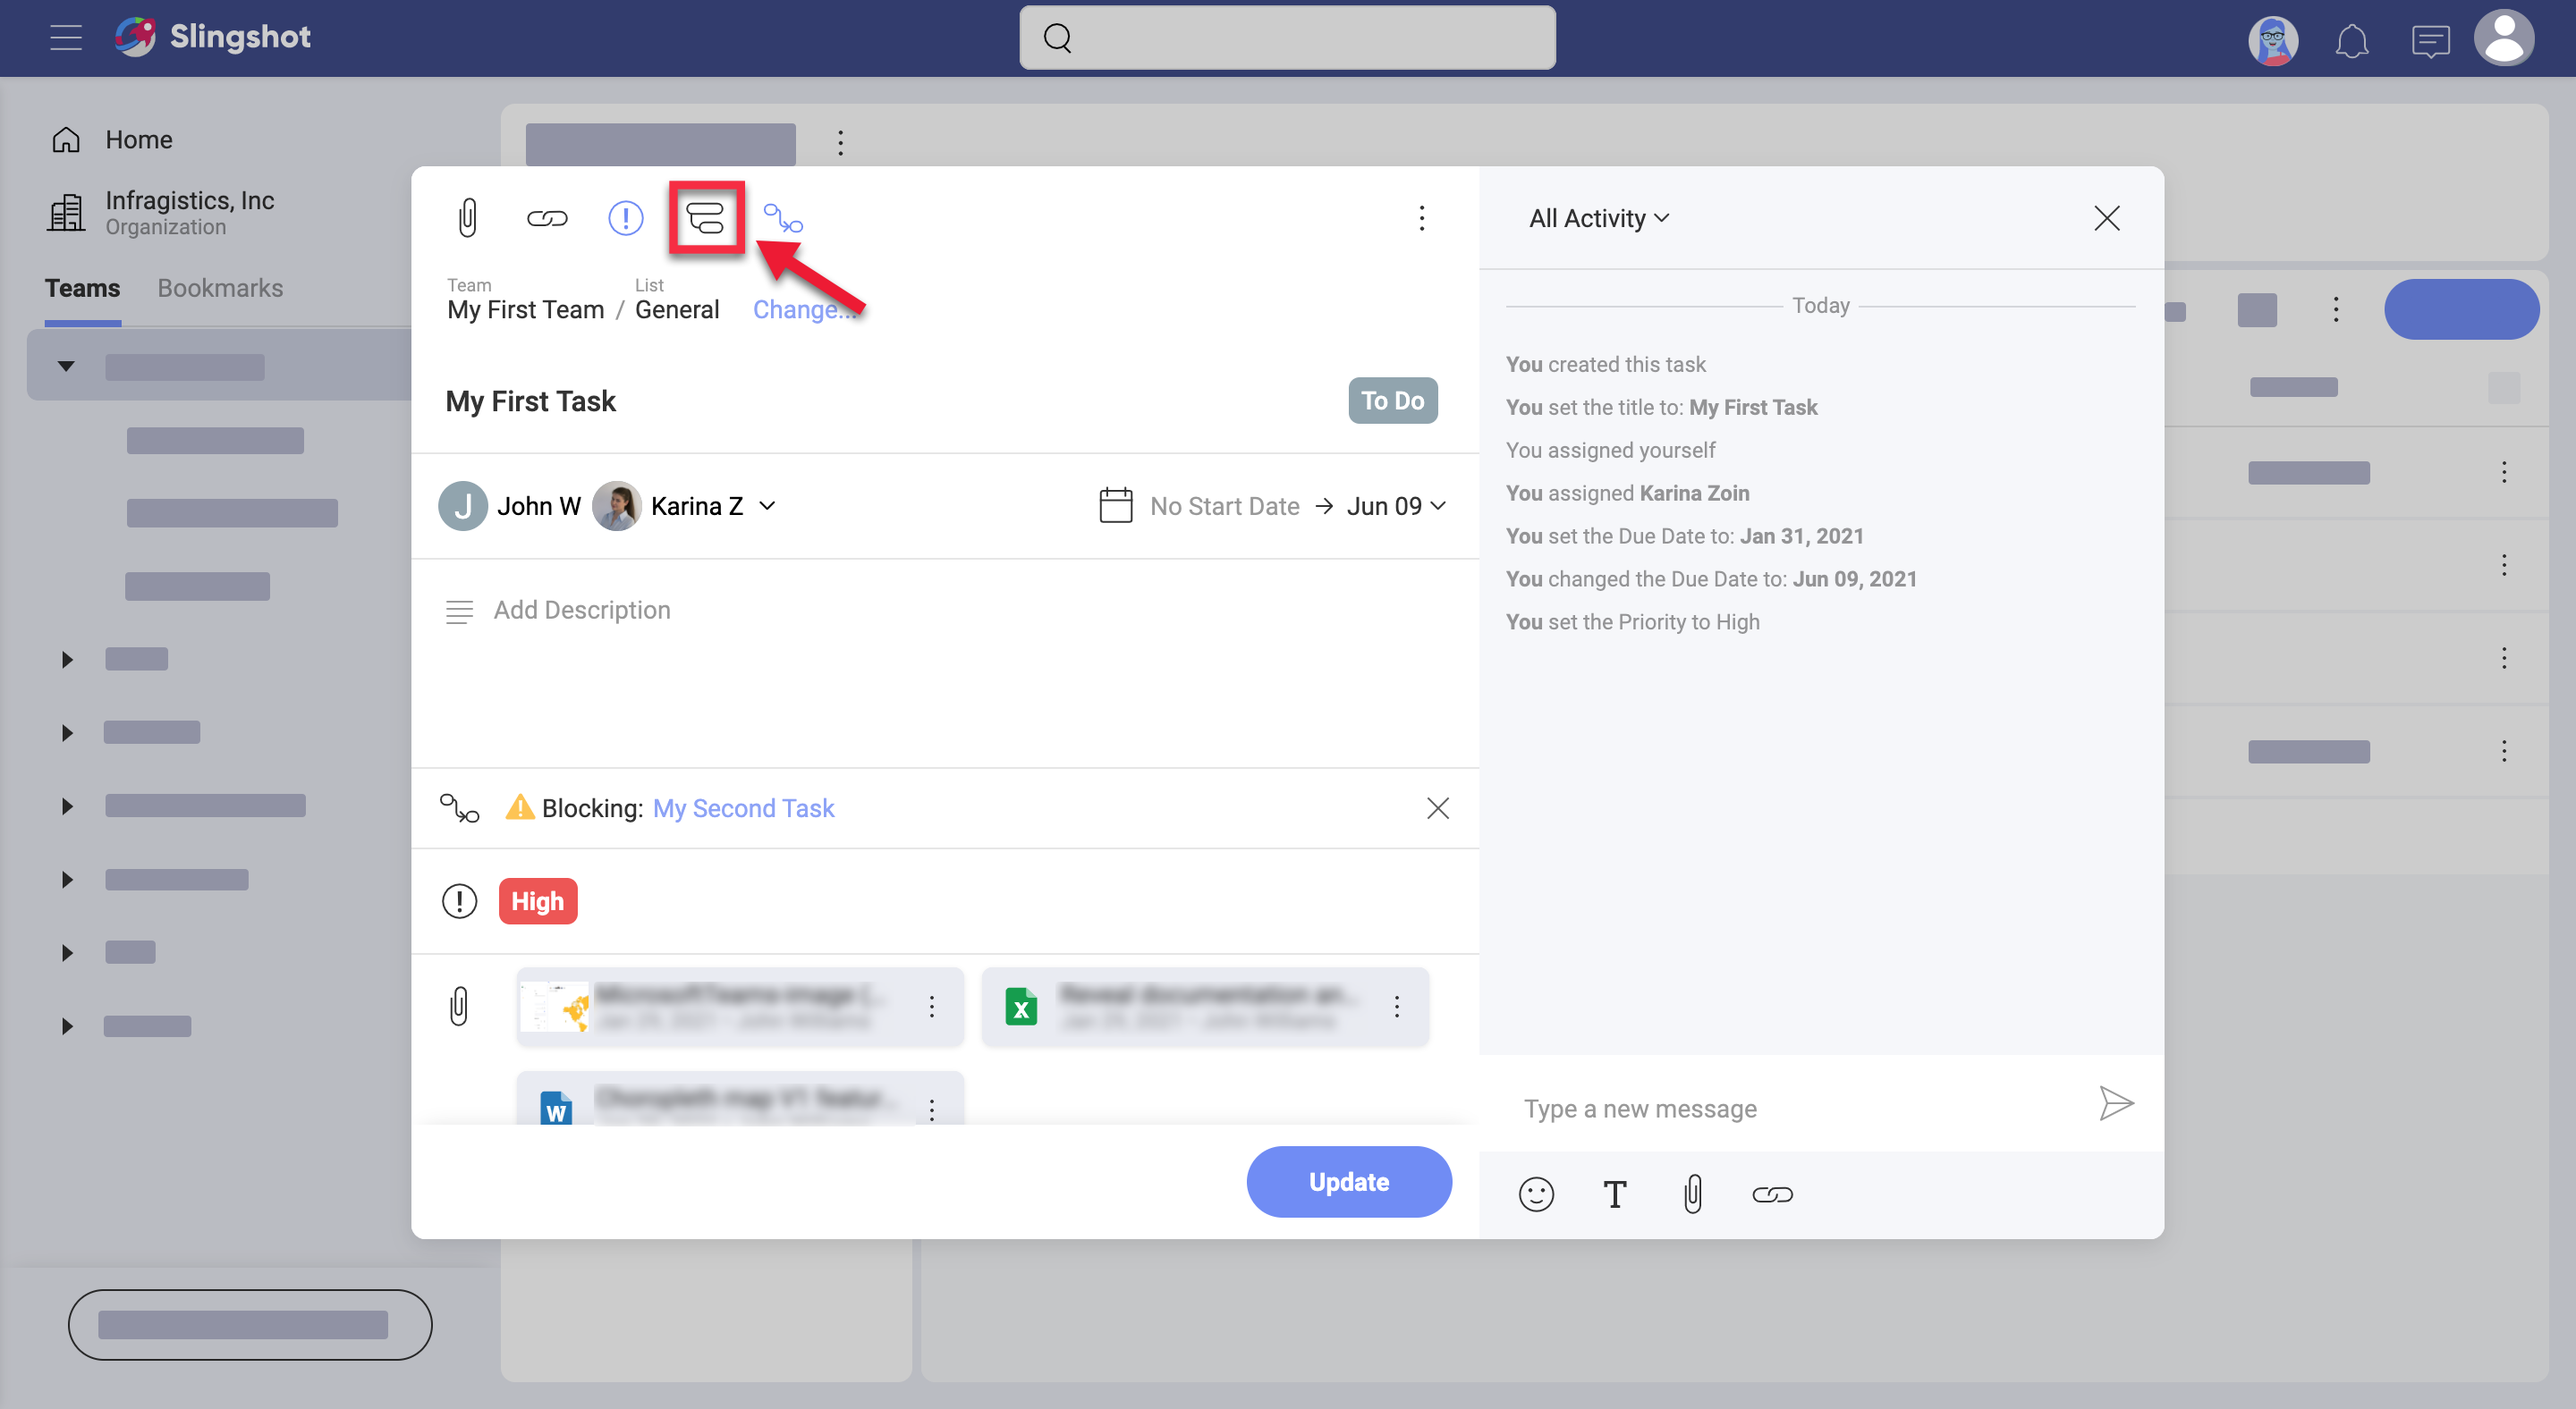
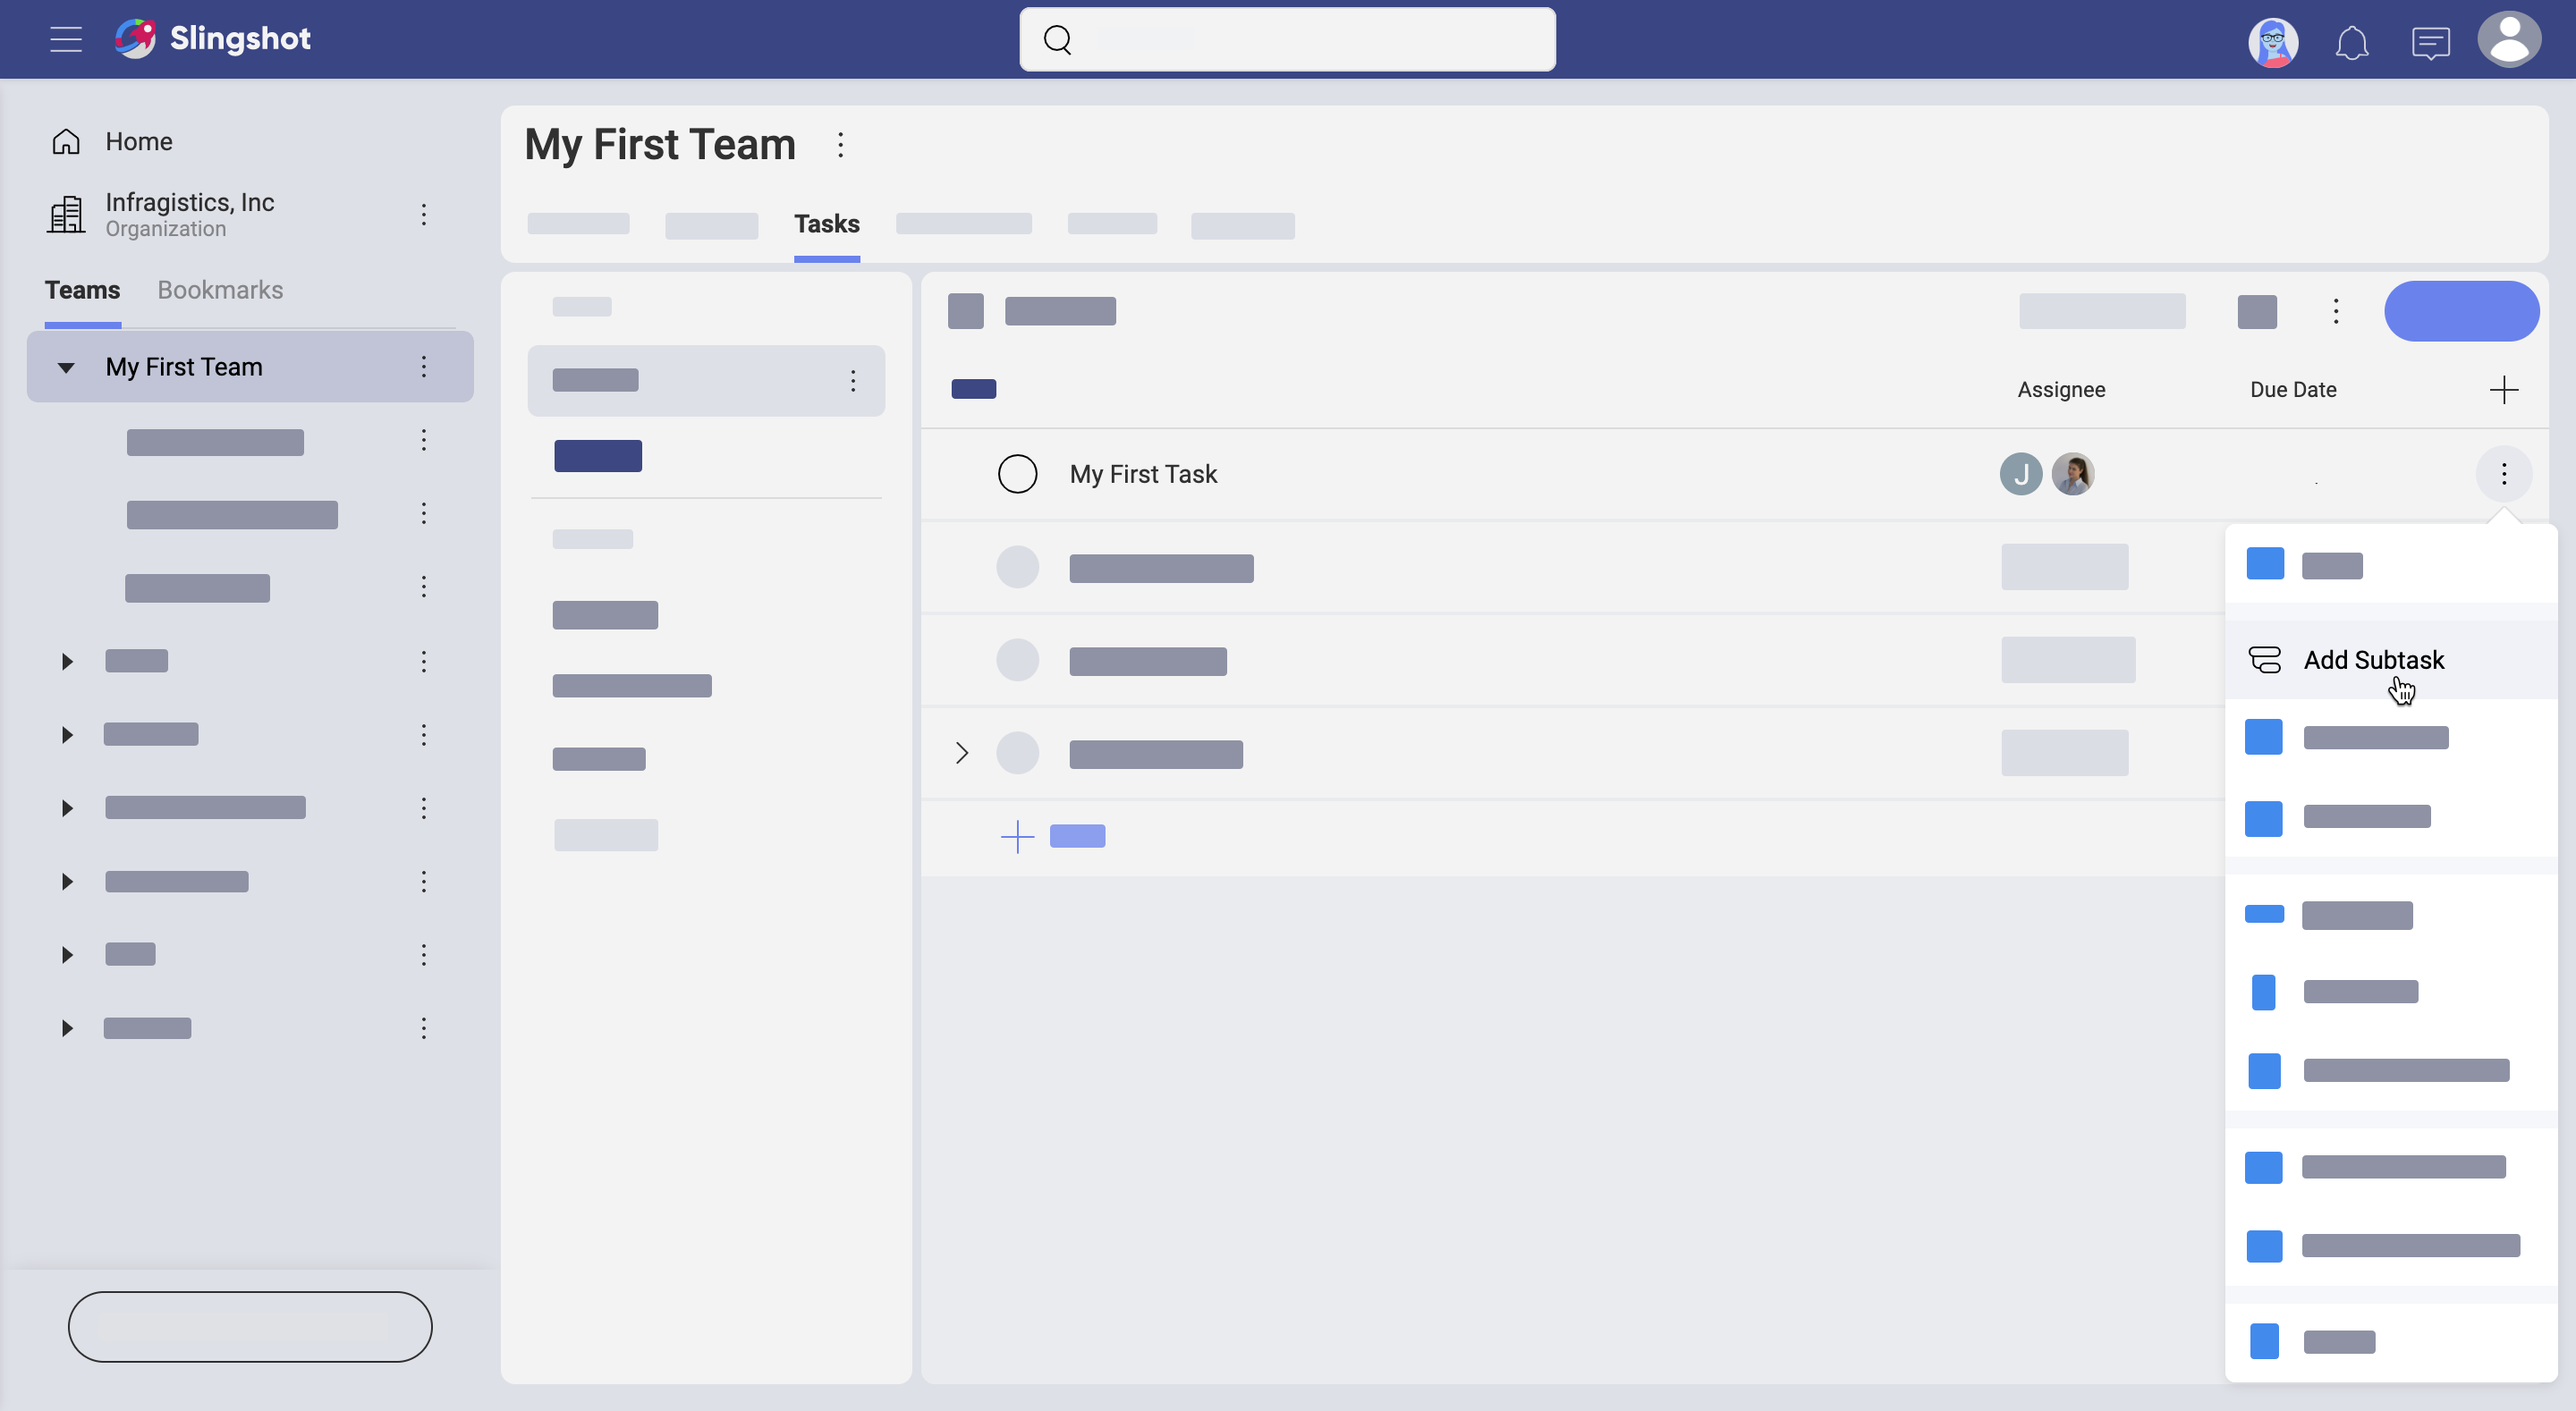
Replace screenshots with SUI screenshots

diff --git a/docTopics/en/components/tasks-starting.md b/docTopics/en/components/tasks-starting.md
@@ -21,7 +21,6 @@ All the members of a team or project can access the tasks created within that te
 
 You can access your tasks by going to a team/project and selecting the **Tasks** tab on top (see below).
 
->replace with a SUI screenshot
 <img src="../images/tasks-accessing.png" alt="Accessing Slingshot tasks" width="100%"/>
 
 Depending on where you stand, you will be accessing different tasks.
@@ -47,12 +46,10 @@ As shown above, there are always other _+ Task_ buttons depending on the *view t
 
 You can directly create a new **subtask** using the main task's overflow menu, as shown below.
 
-> replace with a SUI screenshot
 <img src="../images/tasks-new-subtasks-menu.png" alt="Creating a new subtask from the overflow menu in Slingshot" width="100%"/>
 
 Alternatively, you can create subtasks for a task that is already opened:
 
-> replace with a SUI screenshot
 <img src="../images/tasks-new-subtasks-fromTask.png" alt="Creating a new subtask within a Slingshot task" width="100%"/>
 
 Having the task opened also allows you to insert new subtasks and this way reorder the existing subtasks (see below)
@@ -66,7 +63,7 @@ Two or more tasks may depend on each other's completion. Slingshot helps you kee
 
 You can set a task dependency in the task creation dialog by selecting the *Dependencies* icon on top (see the screenshot below). 
 
-> a screenshot showing the dependecies icon 
+<img src="../images/tasks-add-dependency-fromTask.png" alt="Dependency option in the task creation menu" width="100%"/>
 
 Here, you can choose between two dependency types: 
 
@@ -83,16 +80,14 @@ The **most reliable method** is to open a task by clicking/tapping it (or throug
 
 A **faster method** is to just click/tap the property value you want to change, like shown below with the _Status_ property.
 
-> replace with a SUI screenshot
 <img src="../images/tasks-change-property.png" alt="Slingshot task being updated by changing its status" width="100%"/>
 
 <a name="show-hide-properties"></a>
 ### How Can I Show/Hide Properties?
-Tasks have many field properties that can be displayed when in *List* and *Kanban* view. However by default you can only see the *Title*, *Assignee*, and *Due Date* of a task before opening it.
+Tasks have many field properties that can be displayed when in *List* and *Kanban* view. By default, you can only see the *Title*, *Assignee*, and *Due Date* of a task before opening it.
 
 To show/hide properties, click/tap the **overflow** button on top (next to the *+New* button) > **Fields** and select from the list of properties (as shown below).
 
-> replace with a SUI interface
 <img src="../images/tasks-fields.png" alt="Accessing task fields within Slingshot" width="100%"/>
 
 
